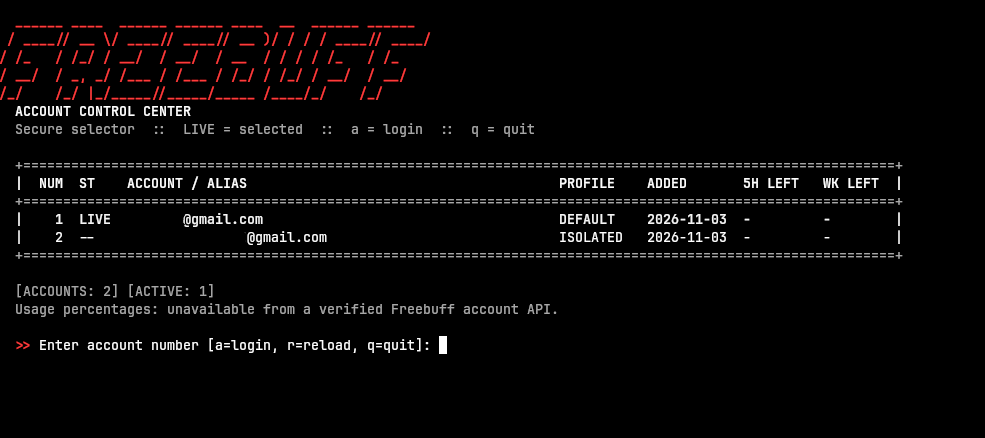
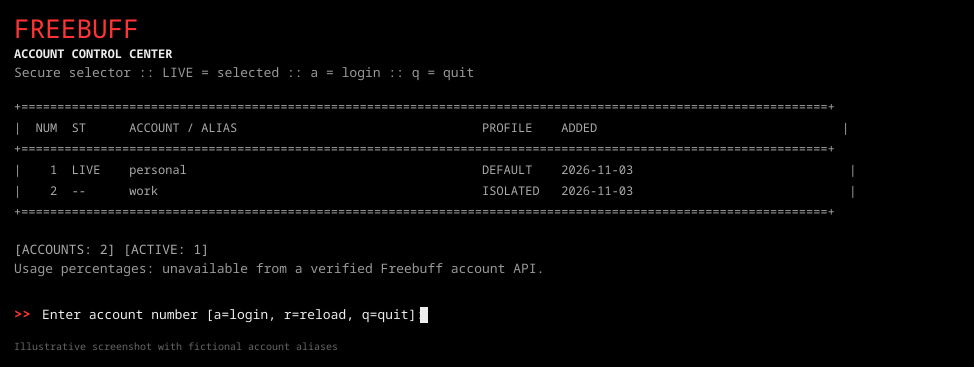
fix: remove unavailable usage columns

diff --git a/src/ui.rs b/src/ui.rs
@@ -89,17 +89,9 @@ pub fn print_accounts(state: &State, no_color: bool) {
     } else {
         // Always reserve a visible ADDED column, including on 72-column terminals.
         // On very wide terminals, preserve the unavailable quota placeholders.
-        let quotas = cols >= 110;
-        let name_w = if quotas { cols.saturating_sub(68).max(16) }
-            else { cols.saturating_sub(46).max(16) };
-        let head = if quotas {
-            format!("  | {:>4}  {:<4}  {}  {:<9}  {:<10}  {:<8}  {:<8} |",
-                "NUM", "ST", fit("ACCOUNT / ALIAS", name_w), "PROFILE",
-                "ADDED", "5H LEFT", "WK LEFT")
-        } else {
-            format!("  | {:>4}  {:<4}  {}  {:<9}  {:<10} |",
-                "NUM", "ST", fit("ACCOUNT / ALIAS", name_w), "PROFILE", "ADDED")
-        };
+        let name_w = cols.saturating_sub(46).max(16);
+        let head = format!(" | {:>4} {:<4} {} {:<9} {:<10} |",
+            "NUM", "ST", fit("ACCOUNT / ALIAS", name_w), "PROFILE", "ADDED");
         let rule = "=".repeat(head.chars().count().saturating_sub(4));
         println!("{}  +{}+{}", c.dim, rule, c.reset);
         println!("{}{}{}", c.bold, head, c.reset);
@@ -108,15 +100,9 @@ pub fn print_accounts(state: &State, no_color: bool) {
             let active = state.active.as_deref() == Some(&a.key);
             let profile = if a.original { "DEFAULT" } else { "ISOLATED" };
             let date = added_at_date(a.created_at_unix);
-            let line = if quotas {
-                format!("  | {:>4}  {:<4}  {}  {:<9}  {:<10}  {:<8}  {:<8} |",
-                    i + 1, if active { "LIVE" } else { "--" },
-                    fit(&cell_name(a), name_w), profile, date, "-", "-")
-            } else {
-                format!("  | {:>4}  {:<4}  {}  {:<9}  {:<10} |",
-                    i + 1, if active { "LIVE" } else { "--" },
-                    fit(&cell_name(a), name_w), profile, date)
-            };
+            let line = format!(" | {:>4} {:<4} {} {:<9} {:<10} |",
+                i + 1, if active { "LIVE" } else { "--" },
+                fit(&cell_name(a), name_w), profile, date);
             if active { println!("{}{}{}", c.green, line, c.reset); }
             else { println!("{}", line); }
         }
